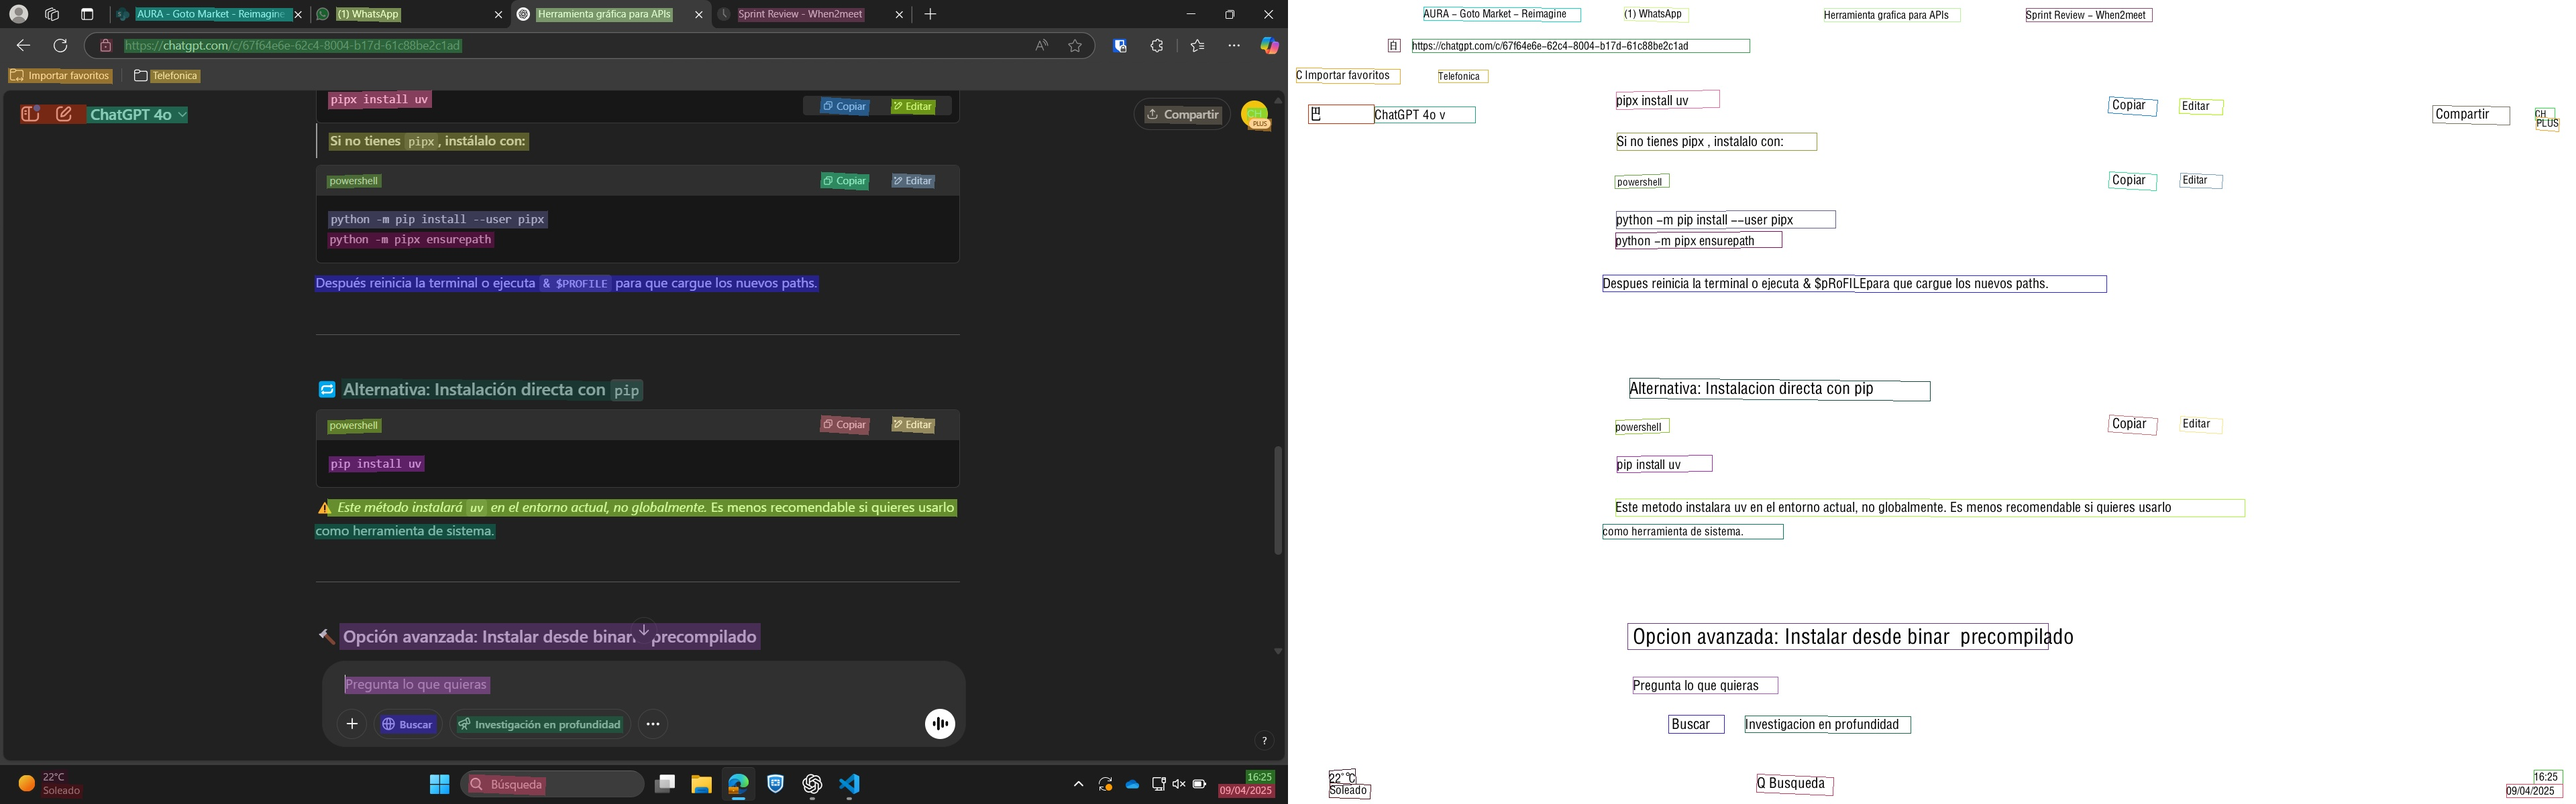
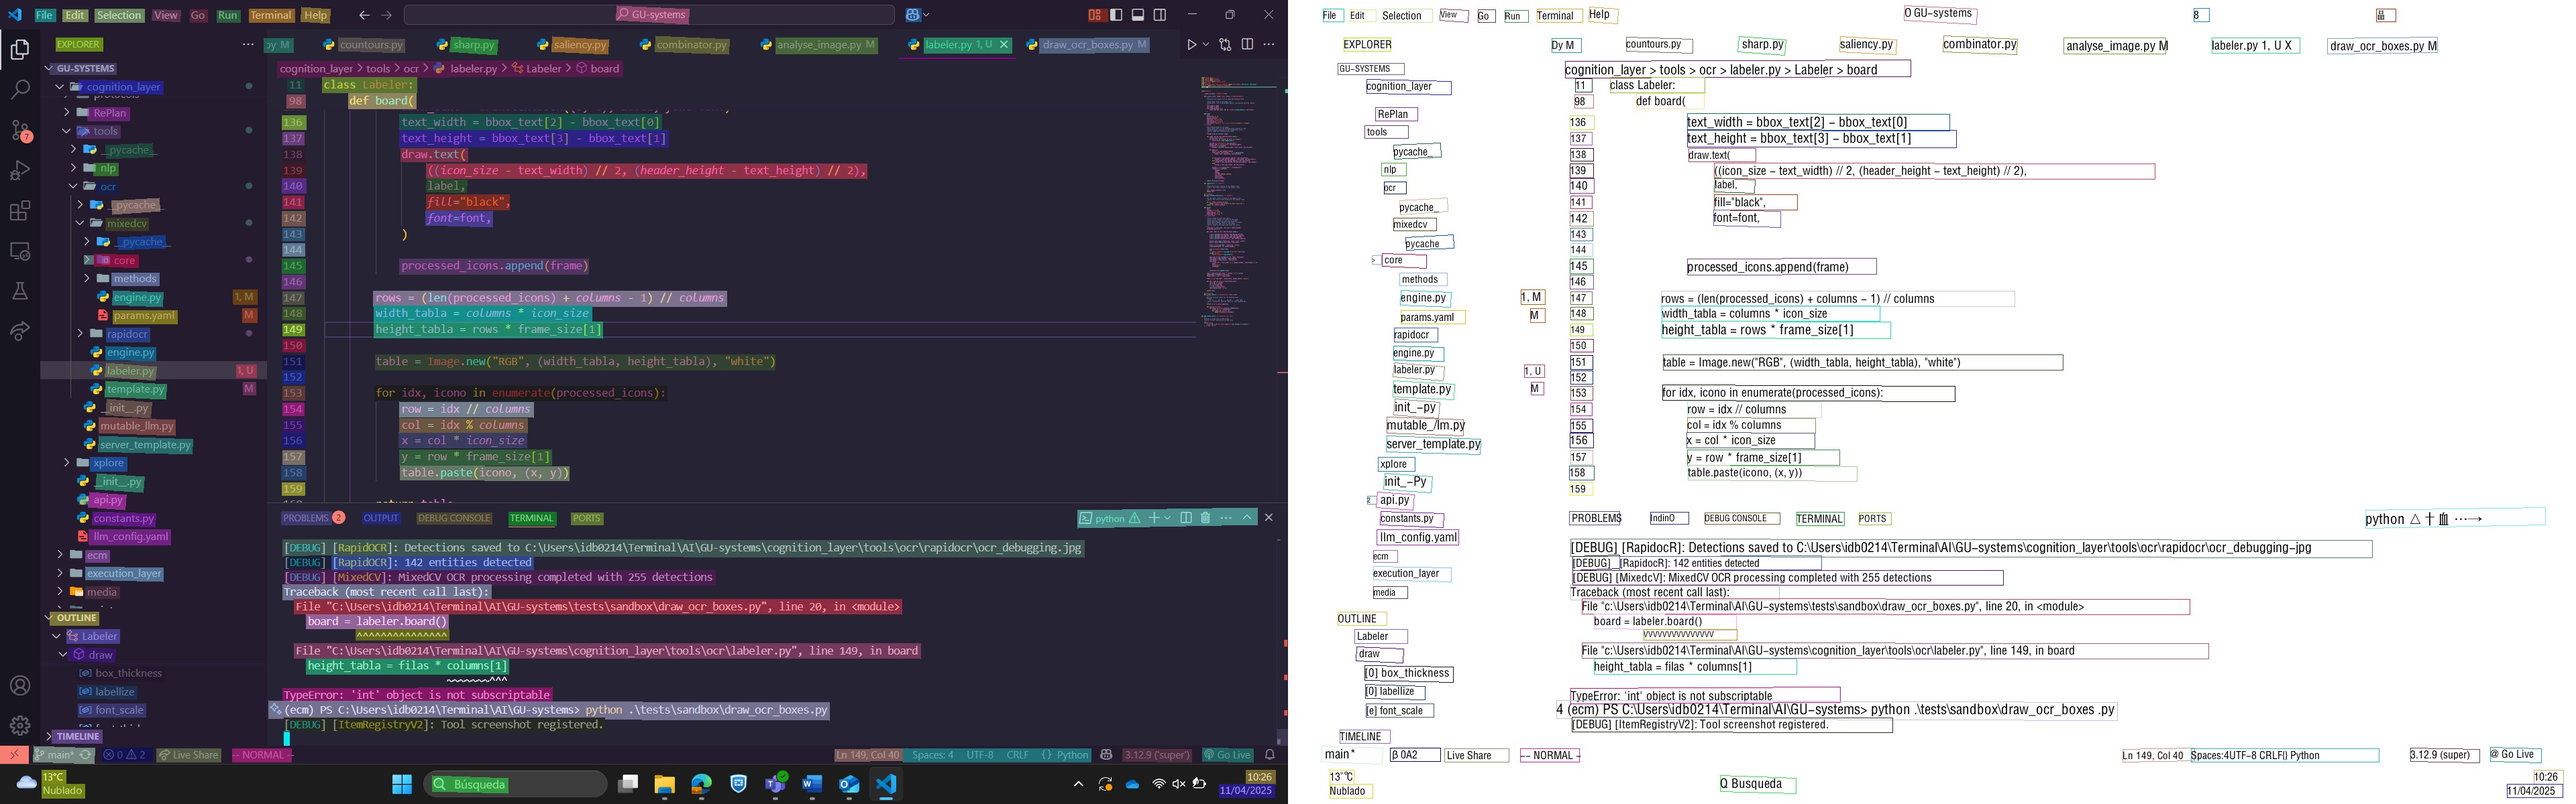
Improved OCR and added Labeler

diff --git a/cognition_layer/tools/ocr/labeler.py b/cognition_layer/tools/ocr/labeler.py
@@ -1,0 +1,193 @@
+import string
+from itertools import count
+from itertools import product
+from typing import Generator
+from typing import Literal
+
+import cv2
+import numpy as np
+from PIL import Image
+from PIL import ImageDraw
+from PIL import ImageFont
+
+from cognition_layer.tools.ocr.template import BoundingBox
+from cognition_layer.tools.ocr.template import cv2_to_pil
+from cognition_layer.tools.ocr.template import pil_to_cv2
+
+
+class Labeler:
+
+    _latest_instance: "Labeler" = None
+
+    def __init__(self, image: Image, boxes: list[BoundingBox]):
+        """
+        Initialize the Labeler with an image and bounding boxes.
+
+        :param image: Path to the image file.
+        :param boxes: List of BoundingBox objects representing detected regions.
+        """
+        self.image = image
+        self.boxes = boxes
+        self.labelled_boxes = {
+            label: box for label, box in zip(self.stream_labels(), self.boxes)
+        }
+
+    def draw(
+        self,
+        color=(255, 0, 0),
+        box_thickness=2,
+        labellize: bool = True,
+        font_scale: float = 0.5,
+        font_thickness: int = 2,
+        font_color: tuple[int, int, int] | Literal["random"] = "random",
+    ) -> Image:
+        """
+        Draw bounding boxes on the image.
+        :param color: Color of the bounding boxes (default is red).
+        :param thickness: Thickness of the bounding box lines.
+        :return: Image with bounding boxes drawn.
+        """
+        cvimage = pil_to_cv2(self.image)
+
+        for label, box in self.labelled_boxes.items():
+            result_color = color
+            if font_color == "random" or color == "random":
+                result_color = get_random_color()
+
+            top_left = tuple(map(int, box.top_left))
+            bottom_right = tuple(map(int, box.bottom_right))
+            cvimage = cv2.rectangle(
+                cvimage, top_left, bottom_right, result_color, box_thickness
+            )
+            if labellize:
+                font = cv2.FONT_HERSHEY_SIMPLEX
+                (text_width, text_height), _ = cv2.getTextSize(
+                    label, font, font_scale, font_thickness
+                )
+
+                if text_width > box.bottom_right[0] - box.top_left[0]:
+                    textpos = (box.bottom_right[0] - text_width, box.top_left[1])
+                elif text_height > box.bottom_right[1] - box.top_left[1]:
+                    textpos = (box.top_left[0], box.bottom_right[1] - text_height)
+                else:
+                    textpos = (box.top_left[0], box.top_left[1])
+
+                textpos = (int(textpos[0]), int(textpos[1]))
+                cvimage = cv2.putText(
+                    cvimage,
+                    label,
+                    textpos,
+                    cv2.FONT_HERSHEY_SIMPLEX,
+                    font_scale,
+                    result_color,
+                    font_thickness,
+                )
+        return cv2_to_pil(cvimage)
+
+    def freeze(self) -> "Labeler":
+        """
+        Freeze the current instance of the Labeler class.
+        :return: The frozen instance of the Labeler class.
+        """
+        self._latest_instance = self
+        return self
+
+    @classmethod
+    def get_freezed_instance(cls) -> "Labeler":
+        """
+        Get the latest frozen instance of the Labeler class.
+        :return: The latest frozen instance of the Labeler class.
+        """
+        if cls._latest_instance is None:
+            raise ValueError("No instance has been frozen yet.")
+        return cls._latest_instance
+
+    def board(
+        self,
+        columns: int = 20,
+        icon_size: int = 80,
+        header_height: int = 20,
+        font_size: int = 12,
+    ) -> Image.Image:
+        """
+        Create a board of icons with labels.
+        :param columns: Number of columns in the board.
+        :param icon_size: Size of each icon in pixels.
+        :param header_height: Height of the header in pixels.
+        :param font_size: Font size for the labels.
+        :return: Image of the board with icons and labels.
+        """
+        frame_size = (icon_size, icon_size + header_height)
+        processed_icons = []
+
+        for label, bbox in self.labelled_boxes.items():
+
+            x_min = min(bbox.top_left[0], bbox.bottom_left[0])
+            x_max = max(bbox.top_right[0], bbox.bottom_right[0])
+            y_min = min(bbox.top_left[1], bbox.top_right[1])
+            y_max = max(bbox.bottom_left[1], bbox.bottom_right[1])
+
+            board = self.image.crop((x_min, y_min, x_max, y_max))
+            board = board.resize((icon_size, icon_size))
+
+            frame = Image.new("RGB", frame_size, "white")
+            frame.paste(board, (0, header_height))
+
+            draw = ImageDraw.Draw(frame)
+            try:
+                font = ImageFont.truetype("arial.ttf", font_size)
+            except OSError:
+                font = ImageFont.load_default()
+
+            bbox_text = draw.textbbox((0, 0), label, font=font)
+            text_width = bbox_text[2] - bbox_text[0]
+            text_height = bbox_text[3] - bbox_text[1]
+            draw.text(
+                ((icon_size - text_width) // 2, (header_height - text_height) // 2),
+                label,
+                fill="black",
+                font=font,
+            )
+
+            processed_icons.append(frame)
+
+        rows = (len(processed_icons) + columns - 1) // columns
+        width_tabla = columns * icon_size
+        height_tabla = rows * frame_size[1]
+
+        table = Image.new("RGB", (width_tabla, height_tabla), "white")
+
+        for idx, icono in enumerate(processed_icons):
+            row = idx // columns
+            col = idx % columns
+            x = col * icon_size
+            y = row * frame_size[1]
+            table.paste(icono, (x, y))
+
+        return table
+
+    @staticmethod
+    def stream_labels() -> Generator[str, None, None]:
+        """
+        Generate infinite labels for the bounding boxes.
+        Example:
+            A1, A2, ..., A9, B1, ..., Z9, AA1, ..., ZZ9, AAA1, ...
+        :return: A generator yielding labels for each bounding box.
+        """
+        letters = string.ascii_uppercase
+
+        for size in count(1):
+            for prefix in product(letters, repeat=size):
+                prefix_str = "".join(prefix)
+                for number in range(1, 10):
+                    yield f"{prefix_str}{number}"
+
+
+def get_random_color() -> tuple[int, int, int]:
+    """
+    Generate a random color in RGB format.
+    :return: A tuple representing the RGB color.
+    """
+    return tuple(
+        int(c) for c in (np.random.rand(3) * 255).astype(int).tolist()
+    )  # type: ignore

diff --git a/cognition_layer/tools/ocr/template.py b/cognition_layer/tools/ocr/template.py
@@ -12,6 +12,7 @@ from dataclasses import dataclass
 from dataclasses import field
 
 import cv2
+import numpy as np
 from PIL import Image
 
 from ecm.tools.item_registry_v2 import Storage
@@ -111,3 +112,32 @@ def draw_bounding_boxes(
             cv2.line(img_out, pts[i], pts[(i + 1) % 4], color, thickness)
 
     return img_out
+
+
+def pil_to_cv2(pil_image: Image.Image) -> np.ndarray:
+    """Translates a PIL image to a cv2 image."""
+    img_np = np.array(pil_image)
+
+    # Detectar si hay canal alfa
+    if pil_image.mode == "RGBA":
+        return cv2.cvtColor(img_np, cv2.COLOR_RGBA2BGRA)
+    elif pil_image.mode == "RGB":
+        return cv2.cvtColor(img_np, cv2.COLOR_RGB2BGR)
+    elif pil_image.mode == "L":  # escala de grises
+        return img_np
+    else:
+        raise ValueError(f"Unsuported image type: {pil_image.mode}")
+
+
+def cv2_to_pil(cv2_image: np.ndarray) -> Image.Image:
+    """Translates a cv2 image to a PIL image."""
+    if len(cv2_image.shape) == 2:  # imagen en escala de grises
+        return Image.fromarray(cv2_image)
+    elif cv2_image.shape[2] == 4:
+        rgba_image = cv2.cvtColor(cv2_image, cv2.COLOR_BGRA2RGBA)
+        return Image.fromarray(rgba_image)
+    elif cv2_image.shape[2] == 3:
+        rgb_image = cv2.cvtColor(cv2_image, cv2.COLOR_BGR2RGB)
+        return Image.fromarray(rgb_image)
+    else:
+        raise ValueError("Unsupported image format: expected 3 or 4 channels")

diff --git a/tests/sandbox/draw_ocr_boxes.py b/tests/sandbox/draw_ocr_boxes.py
@@ -1,10 +1,7 @@
-import cv2
-import numpy as np
-
 import action_space.experimental.screenshot.actions  # noqa
 from action_space.tools.image import load_image
 from cognition_layer.tools.ocr.engine import OCR
-from cognition_layer.tools.ocr.template import draw_bounding_boxes
+from cognition_layer.tools.ocr.labeler import Labeler
 from ecm.shared import get_logger
 from ecm.tools.item_registry_v2 import ItemRegistry
 
@@ -17,11 +14,27 @@ if __name__ == "__main__":
     engine = OCR()
     boxes = engine.invoke(screenshot)
 
-    img_np = np.array(screenshot)
-    opencv_image = cv2.cvtColor(img_np, cv2.COLOR_RGB2BGR)
-    debug_image = draw_bounding_boxes(opencv_image, boxes)
+    icons = [box for box in boxes if box.additional_info.get("type", "null") == "icon"]
 
-    print(boxes)
-    cv2.imshow("debug", debug_image)
-    cv2.waitKey(0)
-    cv2.destroyAllWindows()
+    labeler = Labeler(screenshot, icons)
+    board = labeler.board()
+    board.show("Board")
+
+#
+#    labelled_img = labeler.draw(
+#        color=(0, 0, 0),
+#        box_thickness=1,
+#        font_color="random",
+#        font_scale=0.7,
+#        font_thickness=2,
+#        labellize=True,
+#    )
+#    labelled_img = labeler.draw(
+#        color=(255, 255, 255),
+#        box_thickness=1,
+#        font_color="random",
+#        font_scale=0.8,
+#        font_thickness=2,
+#        labellize=True,
+#    )
+#    labelled_img.show("Labelled Image")

diff --git a/cognition_layer/tools/ocr/mixedcv/core/analyse_image.py b/cognition_layer/tools/ocr/mixedcv/core/analyse_image.py
@@ -83,11 +83,11 @@ def classic_cv_bbox_extraction(image, hyperparams: dict) -> list[BoundingBox]:
         x, y, w, h = box
         bnding_boxes.append(
             BoundingBox(
-                top_left=(x, y),
-                top_right=(x + w, y),
-                bottom_left=(x, y + h),
-                bottom_right=(x + w, y + h),
-                center=((x + x + w) // 2, (y + y + h) // 2),
+                top_left=(int(x), int(y)),
+                top_right=(int(x + w), int(y)),
+                bottom_left=(int(x), int(y + h)),
+                bottom_right=(int(x + w), int(y + h)),
+                center=(int((x + x + w) // 2), int((y + y + h) // 2)),
                 content="",
                 additional_info={"type": "icon"},
             )

diff --git a/cognition_layer/tools/ocr/mixedcv/engine.py b/cognition_layer/tools/ocr/mixedcv/engine.py
@@ -56,11 +56,14 @@ class MixedCV(OcrEngine):
         opencv_image = cv2.cvtColor(img_np, cv2.COLOR_RGB2BGR)
 
         texts = self.textocr.invoke(image)
+        for text in texts:
+            text.additional_info["type"] = "text"
+
         icons = classic_cv_bbox_extraction(opencv_image, hyperparams)
 
         valid_icons = []
         for icon in icons:
-            if any([contained(icon, text) for text in texts]):
+            if any([contained(icon, text, tolerance=30) for text in texts]):
                 continue
 
             valid_icons.append(icon)
